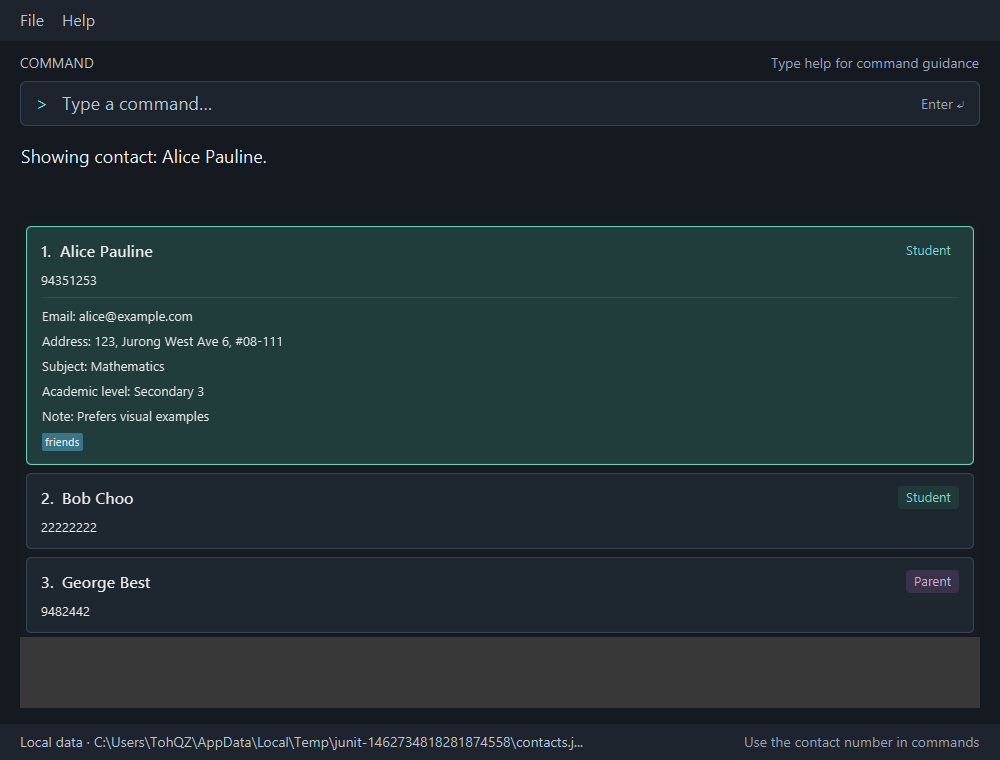
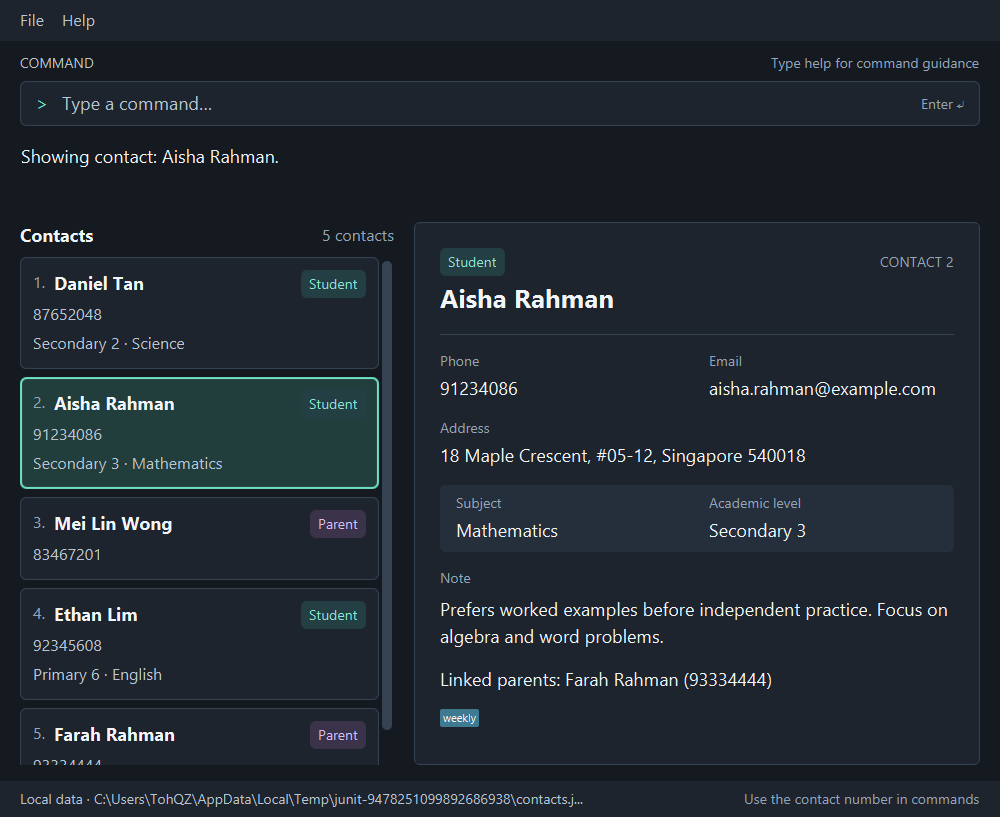
Document split-pane contact interactions
The guides describe in-place expansion and list-driven collapse,
which no longer match the selected-contact detail pane.

Explain selection, editing, relationships, and responsive resizing.
Refresh the application preview and manual test instructions so users
and reviewers can verify the new interaction consistently.

diff --git a/docs/DeveloperGuide.md b/docs/DeveloperGuide.md
@@ -249,7 +249,7 @@ call Storage.
 The following sequence shows the main Logic flow for a successful combined filter, including default ordering
 when no comparator is active. Parser construction, individual predicate evaluations, and routine command checks
 are omitted for clarity. JavaFX observes the resulting list changes. The existing `MainWindow`/`PersonListPanel`
-command handling retains visible selection and expansion or clears a hidden selection.
+command handling retains visible selection and displayed details or clears a hidden selection.
 
 ![Combined contact filtering and display ordering](images/FilterContactsSequenceDiagram.png)
 
@@ -278,16 +278,16 @@ the predicate intact. Subsequent `filter` calls preserve that comparator. `list`
 JUnit covers all seven nonempty criterion combinations, AND name matching, exact values, missing fields, duplicate
 and unknown prefixes, validation precedence, subject length and academic-level boundaries, no matches, name-order ties,
 comparator composition, displayed indices, insertion-order restoration, unchanged JSON, and save-failure rollback.
-`ContactListStateTest` covers selection and expansion after filtering and invalid input.
+`ContactListStateTest` covers selection and displayed details after filtering and invalid input.
 
 For a manual JavaFX check, use a disposable data folder with contacts inserted in this order:
 Zoe Tan (Mathematics, Secondary 3), Alice Tan (parent), Amy Tan (Mathematics, Secondary 3),
 Bob Lee (Physics, JC 2). Give the contacts distinct valid contact details.
 
 1. Run `filter s/Mathematics l/Secondary 3`: expect Amy then Zoe and `Showing 2 matching contacts.`
-2. Run `view 2`, then repeat that filter: Zoe stays selected and expanded at index 2.
-3. Run `filter n/Amy Tan`: expect only Amy; Zoe's selection and expansion clear.
-4. Run `view 1`, then `filter s/`: expect the subject error with Amy's selection, expansion, and list unchanged.
+2. Run `view 2`, then repeat that filter: Zoe stays selected with details at index 2.
+3. Run `filter n/Amy Tan`: expect only Amy; Zoe's selection and displayed details clear.
+4. Run `view 1`, then `filter s/`: expect the subject error with Amy's selection, details, and list unchanged.
 5. Run `filter n/Amy Lee`: expect `No matching contacts.`; `find Amy Lee` should return Amy and Bob.
 6. Run `filter s/Mathematics`, then `delete 1`: Amy is deleted and Zoe becomes index 1. `view 1` shows Zoe.
 7. Run `list`: expect Zoe, Alice, Bob in insertion order with compact cards.
@@ -322,13 +322,13 @@ levels with the same `Level` rules. Unsupported values such as `JC 5` and `Secon
 `getFilteredPersonList()` returns the same displayed view to the UI and to `view`, `edit`, and `delete`, so
 their indices follow the displayed order. `PersonListPanel` supplies this observable view to its `ListView`
 using `setItems(...)`; JavaFX observes subsequent list changes automatically. After command execution,
-`PersonListPanel#completeCommand(...)` restores selection and expansion for any contact still visible and
+`PersonListPanel#completeCommand(...)` restores selection and displayed details for any contact still visible and
 refreshes the cards. The diagram note summarizes the automatic update without implying a direct method call
 from `SortedList` to `PersonListPanel`.
 
 Sorting stays active when `find` or `filter` replaces the predicate; successful `add` and `edit` clear filtering
 but retain the comparator. `list` sets `PREDICATE_SHOW_ALL_PERSONS` and clears the comparator with
-`setPersonListComparator(null)`, restoring all remaining contacts in insertion order and collapsing details.
+`setPersonListComparator(null)`, restoring all remaining contacts in insertion order while retaining selected details.
 The filter and comparator are session state: neither is saved, and restarting restores insertion order.
 
 The diagram shows creation of the command parser, command, and result, with synchronous calls and dashed returns.
@@ -339,7 +339,7 @@ are omitted to keep the diagram focused on parsing and applying the sort.
 ### Parent-student links
 
 `link PARENT_INDEX STUDENT_INDEX` records that a parent contact is the parent of a student contact.
-Expanded contact cards then list the contact's linked students or parents.
+The selected-contact detail pane lists the contact's linked students or parents.
 
 The class diagram below shows how a link is represented and persisted. Fields and classes unrelated to links,
 such as `Email`, `Address`, `Tag`, `UserPrefs`, and the storage managers, are omitted.
@@ -352,13 +352,14 @@ duplicate-contact rules (`Name#isSameName` and `Phone#isSamePhone`). `ParentStud
 also check the contact's `Role`, because a parent and a student may share a name and phone. Within one role, name
 and phone identify at most one contact, so each link resolves to exactly one parent and one student.
 A parent can have 0..* linked students and a student can have 0..* linked parents.
-Cards and `link` messages show each linked contact as `Name (phone)`, because two contacts may share a name.
+The detail pane and `link` messages show each linked contact as `Name (phone)`, distinguishing shared names.
 
 **Normal path.** `LinkCommandParser` parses two displayed-list indices. `LinkCommand#execute` looks up both
 contacts in `Model#getFilteredPersonList()`, checks that the first is a parent and the second a student, creates the
 link with `ParentStudentLink#between`, and rejects a duplicate using `Model#hasLink`. It then calls
-`Model#addLink` and returns a result that expands the parent's card. `LogicManager` saves the address book because
-the command changes data. `PersonListPanel` asks `Logic#getLinkedPersons` for each card's linked contacts.
+`Model#addLink` and returns a result that selects the parent and displays its details.
+`LogicManager` saves the address book because
+the command changes data. `PersonListPanel` asks `Logic#getLinkedPersons` for the selected contact's linked contacts.
 
 **Keeping links consistent.** `AddressBook` updates links whenever contacts change, so every command that changes
 contacts keeps links valid without extra code:
@@ -548,7 +549,7 @@ in the current AB3 codebase.)
    and may supply a note for either role.
 2. TutorContacts validates the fields and checks for a duplicate contact.
 3. TutorContacts adds the contact to the end of the list and selects its compact card, which shows its index, role,
-   name, and phone.
+   name, phone, and student tuition summary. Its complete information appears in the detail pane.
 4. TutorContacts saves the updated data file and reports `Added student: NAME.` or `Added parent: NAME.`
 
    Use case ends.
@@ -580,7 +581,7 @@ in the current AB3 codebase.)
 
 1. User enters `list` to see all contacts.
 2. TutorContacts shows every contact in insertion order, numbered from 1, with its role, name, and phone on a compact
-   card. Any expanded contact card is collapsed.
+   card. Student cards include level and subject. Any selected contact retains its details.
 3. TutorContacts reports `Showing N contacts.`
 4. User scans the list. No contact data is changed or saved.
 
@@ -604,8 +605,8 @@ in the current AB3 codebase.)
 1. User enters `list` to display contacts.
 2. TutorContacts displays contacts with their current index numbers.
 3. User enters `view INDEX` for a contact in that displayed list.
-4. TutorContacts highlights and expands the indexed contact card in place. The other cards remain compact, and the
-   list remains visible.
+4. TutorContacts highlights the indexed compact card and displays its complete information in the detail pane.
+   The list remains visible.
 5. TutorContacts shows the contact's role, name, phone, email, address, note, and subject and level if it is a student.
    TutorContacts reports `Showing contact: NAME.` No contact data is changed or saved.
 
@@ -615,12 +616,12 @@ in the current AB3 codebase.)
 
 * 3a. The index is non-numeric, zero, or negative.
   * 3a1. TutorContacts shows `Index must be a positive integer shown in the current list.` The displayed list and
-    expanded-card selection remain unchanged.
+    detail-pane selection remain unchanged.
 
     Use case resumes at step 3.
 * 3b. The index is larger than the currently displayed list.
   * 3b1. TutorContacts shows `No contact exists at index INDEX in the current list.` The displayed list and
-    expanded-card selection remain unchanged.
+    detail-pane selection remain unchanged.
 
     Use case resumes at step 3.
 * 3c. The index is missing, or the user supplies extra arguments.
@@ -771,12 +772,13 @@ in the current AB3 codebase.)
 
 * **Academic level**: A student's stage of study: `Primary 1`–`Primary 6`, `Secondary 1`–`Secondary 5`,
   or `JC 1`–`JC 2`. Recorded only for student contacts, using canonical capitalization.
-* **Compact card**: The summary of a contact shown in the contact list, displaying its index, role, name, and phone.
+* **Compact card**: The summary of a contact shown in the contact list, displaying index, role, name, phone,
+  and a student level/subject summary.
 * **Data file**: The file `data/tutorcontacts.json`, in the same folder as the JAR file, in which TutorContacts saves
   all contacts.
 * **Duplicate contact**: A contact with the same role and _normalized name_ as an existing contact, and whose phone
   or email also matches that contact's.
-* **Expanded card**: A contact card that shows all of the contact's details after a `view INDEX` command.
+* **Detail pane**: The scrollable region showing complete information for the selected contact.
 * **INDEX**: The one-based position of a contact in the currently displayed contact list.
 * **Mainstream OS**: Windows, Linux, Unix, or macOS.
 * **MVP**: Minimum viable product; the smallest version of TutorContacts that delivers its core value.
@@ -800,7 +802,7 @@ in the current AB3 codebase.)
 ### Help command guide
 
 Use a disposable data file containing at least two contacts. Before testing, run `view 1` and note the
-selected contact, expanded details, and the data file's contents and last-modified time.
+selected contact, displayed details, and the data file's contents and last-modified time.
 
 1. Enter `help`. Expect one window titled **TutorContacts — Command guide**, containing the command reference
    and the TutorContacts User Guide URL. Enter `help` again in the main window: the same Help window should
@@ -816,7 +818,7 @@ selected contact, expanded details, and the data file's contents and last-modifi
 5. Select **Copy User Guide URL** and paste into a browser's address bar. Expect exactly
    `https://ay2627s1-cs2103t-t17-1.github.io/tp/UserGuide.html`. With Internet access, navigate to it and
    verify that it opens the TutorContacts User Guide, not the inherited AB3 guide.
-6. Close Help. Expect the contact list, selected contact, and expanded details to be unchanged. Check that
+6. Close Help. Expect the contact list, selected contact, and displayed details to be unchanged. Check that
    the data file's contents and last-modified time still match the values recorded before opening Help.
 
 ### Command parsing and validation
@@ -871,8 +873,8 @@ Use a disposable data file for these checks:
 Prefix recognition checks (use disposable test data):
 
 1. Enter `ADD R/PARENT N/Prefix Parent P/81234567 E/prefix@example.com A/311, Clementi Ave 2, #02-25`.
-   Check that capitalization is retained and a parent contact is added, then run `view 1` to expand it.
-2. Enter `add n/Alex x/foo`. Expect `Unknown prefix: x/.` with the selected contact and expansion unchanged.
+   Check that capitalization is retained and a parent contact is added, then run `view 1` to show its details.
+2. Enter `add n/Alex x/foo`. Expect `Unknown prefix: x/.` with selection and displayed details unchanged.
 3. Enter `add n/Alex N/Bob`. Expect `Prefix n/ may be specified only once.` with no contact-data change.
 4. Enter `add r/parent n/Literal Parent p/91234567 e/literal@example.com a/21 Clementi Ave 3 o/Discuss \x/foo`.
    View the added contact and check its note is `Discuss x/foo`. Check the JSON stores that same literal text.
@@ -880,13 +882,26 @@ Prefix recognition checks (use disposable test data):
 The prefix and student/parent flow tests in `ContactCardsUiTest` check prefix recognition and literal text
 through real command-box execution and JSON storage when `RUN_UI_TESTS=true`.
 
-`CommandResult` carries a `ContactListAction` and an optional target contact. `add` requests selection,
-`view` requests selection and expansion, and `list` requests collapse. Other successful commands retain the
-selection only while that contact remains visible. `MainWindow` applies these requests after `Logic.execute`
-returns, including any required save. `PersonListPanel` ignores transient JavaFX selection changes during
-execution and reconciles the final list using `ContactListState`, which retains contacts rather than indices.
-Failed commands restore the prior presentation against the final model; restoring model data after a failed save
-is the logic layer's responsibility.
+`CommandResult` carries a `ContactListAction`, an optional target, and an optional previous contact.
+`add`, `view`, and `link` request selection. `edit` supplies an explicit old/new replacement pair, so the UI
+follows a selected edit without guessing identity from names or list indices. `list` retains selection and details.
+`MainWindow` applies presentation requests only after `Logic.execute` returns, including any required save.
+`PersonListPanel` suppresses transient JavaFX selection changes during execution and reconciles the final list
+using `ContactListState`. The state contains one selected contact; there is no independent expansion state.
+Failed commands restore presentation against the final model; the logic layer restores contacts and links after
+save failures.
+
+`ContactDetailPanel` owns role-specific fields, tags, missing-value labels, and relationship text.
+The workspace refreshes it after every command, even when a link changes without a list-change event.
+Relationships come from `Logic#getLinkedPersons`, including relatives outside the current filter.
+
+`PersonListPanel.fxml` uses a native JavaFX `SplitPane` with a default 40/60 list/detail ratio.
+Below 800 logical pixels of workspace width it switches to a vertical layout. Changing orientation resets the
+divider to the default ratio; dragging it adjusts the current layout without saving a preference.
+`ContactWorkspace.css` scopes the prototype card and detail styles to this workspace. Both regions scroll;
+detail field pairs reflow into a single column when narrow. Startup does not automatically select a contact.
+At logical window heights below 500 pixels, the feedback area remains scrollable at a reduced height so the
+list and detail panes have more usable space. The default window preference behavior is unchanged.
 
 `ContactListStateTest` runs in the normal headless JUnit suite. `ContactCardsUiTest` additionally checks actual
 FXML fields and command-box integration on a desktop. With Java 25, run it using:
@@ -896,36 +911,44 @@ FXML fields and command-box integration on a desktop. With Java 25, run it using
 
 The desktop tests are opt-in because CI does not provide a graphical display on every platform.
 They save rendered previews under `build/reports/ui` for visual inspection.
+The split-pane fixture is `src/test/data/UiSplitContacts.json`; it contains five fictional contacts and three links.
+The content-size tests create explicitly sized scenes and assert their final dimensions; native OS scaling is
+still a separate manual check.
 
 Manual checks for the UI contribution:
 
-1. Start with at least two contacts. Check that compact cards show only index, role, name, and phone.
-2. Run `view 2`, then `view 1`: only the latest target should be expanded. Check student subject/level,
+1. Start with at least two contacts. Check compact cards show index, role, name, phone, and student level/subject.
+2. Run `view 2`, then `view 1`: only the latest target should appear in the detail pane. Check student subject/level,
    parent omission of those fields, email, address, and note. Check long names and notes wrap without clipping.
-3. Run `view 0`, `view 99` (when out of range), and `view 1 extra`: selection and expansion must not change.
-4. Run `list`: all cards should be compact. Add a contact: its compact card should be selected and visible.
-5. View the second contact and delete the first: the same contact should stay expanded with index 1.
+3. Run `view 0`, `view 99` (when out of range), and `view 1 extra`: selection and displayed details must not change.
+4. Run `list`: selection and details remain. Add a contact: its compact card and details should become selected.
+5. View the second contact and delete the first: the same contact should retain its details with index 1.
    Delete that selected contact: selection should clear. Repeat within filtered search results.
 6. Check resizing and scrolling at 1920x1080 with 100%/125% scaling and 1280x720 with 150% scaling.
    Keyboard command entry must remain usable after selection changes.
-7. Repeat add, edit, and delete with a failing save and check both the list data and selection remain unchanged.
-   UI tests simulate model restoration; they do not verify storage rollback.
+7. Click another card and use arrow-key list selection: the pane follows selection without changing feedback.
+8. Edit the selected contact's name, phone, and email; its new identity stays selected. Edit a linked contact:
+   the pane refreshes the relationship text. Run `link`: the parent becomes selected even without a list change.
+9. Filter out the selection, then run `list`: selection must remain empty. Test zero results, clear, and restart.
+10. Drag the divider and resize across the 800-pixel workspace breakpoint; selection and command text remain.
+11. Repeat add, edit, link, clear, and delete with a failing save and check both the list data and selection remain unchanged.
+   UI tests also inject real save failures through LogicManager and verify restored contacts, relationships, and details.
 
 ### Main-window appearance and command entry
 
 `MainWindow.css` is loaded after the inherited stylesheets. Its selectors target the main window's menu,
-command area, feedback, and footer, leaving contact cards and the separate Help window unchanged.
+command area, feedback, and footer. Contact styles belong to ContactWorkspace.css; Help keeps its separate styles.
 The layout follows the Figma palette and spacing while retaining native window controls and a portable
-system font. Cards still expand in place. The prototype's separate details pane and last-command chip
-are not implemented. The original intended-design image remains at `images/Ui.png`; the User Guide's
+system font. The workspace implements the prototype's separate detail pane; the last-command chip is omitted.
+The original intended-design image remains at `images/Ui.png`; the User Guide's
 `images/mainWindow.png` shows the implemented layout.
 
 Use disposable contact data for these checks:
 
 1. Click the command field and type `view 1`. Check the teal focus outline, unchanged command text,
-   and in-place expansion. The `>` and `Enter ↵` cues must not intercept clicks or receive keyboard focus.
+   and details in the separate pane. The `>` and `Enter ↵` cues must not intercept clicks or receive keyboard focus.
 2. Enter `view 0` or `unknown`. Expect the existing error message, retained input with error styling,
-   and unchanged selection. Edit the input: error styling clears. Run `list`: the input clears and cards collapse.
+   and unchanged selection. Edit the input: error styling clears. Run `list`: the input clears and selected details remain.
 3. Trigger a long usage error, for example with `add`. Check that feedback wraps, scrolls, and can be
    selected and copied in full. Also check the startup warning using an invalid disposable data file.
 4. Resize down to the existing 450 x 420 minimum. Command entry, feedback, and list scrolling must remain
@@ -957,10 +980,10 @@ testers are expected to do more *exploratory* testing.
 
    Expected: index 1 is Alex Tan (91234567), index 2 is Alex Tan (98765432), and index 3 is Mary Tan.
 1. Test case: `link 3 1`<br>
-   Expected: `Linked parent Mary Tan (93334444) to student Alex Tan (91234567).` Mary Tan's card expands and shows
+   Expected: `Linked parent Mary Tan (93334444) to student Alex Tan (91234567).` Mary Tan's detail pane shows
    `Linked students: Alex Tan (91234567)`.
 1. Test case: `link 3 2`<br>
-   Expected: Mary Tan's card shows `Linked students: Alex Tan (91234567), Alex Tan (98765432)`.
+   Expected: Mary Tan's detail pane shows `Linked students: Alex Tan (91234567), Alex Tan (98765432)`.
 1. Test case: `link 3 1`, then `link 1 2`, then `link 3 3`<br>
    Expected: in turn, `Mary Tan (93334444) is already linked to Alex Tan (91234567).`,
    `The contact at index 1 is not a parent.`, and `A contact cannot be linked to itself.` No data changes.

diff --git a/docs/UserGuide.md b/docs/UserGuide.md
@@ -24,7 +24,7 @@ help you find and manage this information faster than traditional GUI applicatio
 
 1. Open a terminal, `cd` to the folder containing the JAR file, and run `java -jar tutorcontacts.jar`.<br>
    A GUI similar to the one below should appear in a few seconds. On the first launch, the contact list is empty.<br>
-   ![TutorContacts main window with a student contact expanded in place](images/mainWindow.png)
+   ![TutorContacts main window with a compact list and selected-contact detail pane](images/mainWindow.png)
 
 1. Type a command in the command box and press Enter to execute it. For example, type **`help`** and press Enter to open the help window.<br>
    Some example commands you can try:
@@ -138,7 +138,7 @@ Format: `add r/ROLE n/NAME p/PHONE e/EMAIL a/ADDRESS [s/SUBJECT] [l/LEVEL] [o/NO
 * Either role may supply `o/NOTE`. An omitted or whitespace-only note is treated as absent.
 * `t/` and other unsupported prefixes are rejected. Adding tags or multiple subjects is not supported.
 * On success, TutorContacts reports `Added student: NAME.` or `Added parent: NAME.`
-* The newly added contact is selected and scrolled into view as a compact card.
+* The newly added contact is selected and scrolled into view; its complete information appears in the detail pane.
 
 Field rules apply to normalized values. Leading and trailing whitespace is trimmed; consecutive spaces in
 names, subjects, and levels are collapsed. Capitalization is retained except for roles and academic levels,
@@ -175,7 +175,8 @@ Examples:
 Displays all contacts in insertion order, numbered from 1. This command clears filtering and sorting
 to restore the complete insertion-order list.
 
-Compact cards show only the index, role, name, and phone. `list` collapses any expanded card.
+Compact cards show index, role, name, and phone, plus academic level and subject for students.
+`list` retains the selected contact and its details while restoring the complete insertion-order list.
 
 Format: `list`
 
@@ -188,7 +189,7 @@ Format: `list`
 
 Example: `list`
 
-![Result of the list command showing four compact contact cards](images/listContactsResult.png)
+![Compact contact list beside the detail pane](images/mainWindow.png)
 
 ### Sorting contacts by academic level: `sort`
 
@@ -197,7 +198,7 @@ Format: `sort level`
 * Students come first: `Primary 1`–`Primary 6`, then `Secondary 1`–`Secondary 5`, then `JC 1`–`JC 2`.
   Names break level ties, ignoring case. Legacy students without levels follow other students;
   parents come last, ordered by name. Equal sort keys have no additional guaranteed order.
-* Sorts the current results, retaining the filter and any visible selected or expanded contact.
+* Sorts the current results, retaining the filter and any visible selected contact and its details.
   Sorting remains active as results change; `list` clears filtering and sorting.
 * `view`, `edit`, and `delete` use the displayed indices. Sorting does not save data or change stored order.
 * `SORT LEVEL` and surrounding whitespace are accepted. Success: `Contacts sorted by academic level.`,
@@ -216,19 +217,23 @@ Format: `view INDEX`
 * Supply exactly one **positive integer**: `1`, `2`, `3`, … Use digits only; leading zeros are accepted.
 * On success, the message is `Showing contact: NAME.`
 * This command does not change contact details or save the data file.
-* The selected card is highlighted and expanded in place; other cards remain compact.
-* Expanded cards also show email, address, and note, plus subject and academic level for students.
+* The selected card is highlighted, and its complete information appears in the separate detail pane.
+  All contact cards remain compact. Clicking a card or selecting it with the list's arrow keys also shows its details.
+* The detail pane shows email, address, note, linked contacts, and subject and academic level for students.
   An absent note is shown as `None`. Older student records without subject or level show `Not recorded` for those fields.
-  Existing tags, if any, appear only in the expanded card.
-* Use `view` on another contact to move the expansion, or `list` to collapse it.
+  Existing tags, if any, appear in the detail pane.
+* Use `view` on another contact to change the detail pane. `list` keeps the selected contact and its details.
+* On startup, the pane prompts you to select a contact. An empty displayed list shows guidance to use `list` or add a contact.
+* The list and detail pane start at a resizable 40/60 split. Below 800 logical pixels of workspace width,
+  they stack vertically. Each region scrolls independently. No selection or divider position is saved across restarts.
 
 Examples:
 * `list` followed by `view 2` shows the second displayed contact.
 * `find Betsy` followed by `view 1` shows the first search result.
 
-![Result of view 1 showing an expanded student contact card](images/viewContactResult.png)
+![Selected student shown beside the compact contact list](images/mainWindow.png)
 
-Invalid input leaves contact data, the displayed list, and the current selection and expansion unchanged:
+Invalid input leaves contact data, the displayed list, and the current selection and displayed details unchanged:
 
 | Input problem | Error message |
 | --- | --- |
@@ -247,8 +252,8 @@ Format: `link PARENT_INDEX STUDENT_INDEX`
 * Supply exactly two **positive integers**. The first must be a parent and the second must be a student.
 * A parent can be linked to several students, and a student can be linked to several parents.
 * On success, the message is `Linked parent PARENT_NAME (PHONE) to student STUDENT_NAME (PHONE).`
-  The parent's card is highlighted and expanded.
-* Expanded cards list linked contacts with their phone numbers, so contacts with the same name can be told apart.
+  The parent's card is highlighted and its details appear in the detail pane.
+* The detail pane lists linked contacts with their phone numbers, so contacts with the same name can be told apart.
   For example, a parent shows `Linked students: Alex Tan (91234567)` and a student shows `Linked parents: …`.
   A contact without links shows `None`.
 * Links are saved with your contacts. Deleting a linked contact removes its links, and editing a linked contact's
@@ -293,9 +298,9 @@ Format: `edit INDEX [n/NAME] [p/PHONE] [e/EMAIL] [a/ADDRESS] [s/SUBJECT] [l/LEVE
   matching normalized phone or case-insensitive email, is a duplicate. Invalid input, a duplicate, or a failed save
   leaves the displayed and saved contact data unchanged. Successful edits are saved automatically.
 * After a successful edit, TutorContacts reports `Edited person: ...` and displays the complete contact list again.
-  A search filter is cleared, so contact indices may change. Check the contact's current index, or search for the
-  contact again, before using `view INDEX` to inspect its subject, level, or note. The success message itself lists
-  only the general contact fields.
+  A search filter is cleared, so contact indices may change. Editing the selected contact keeps its updated details
+  visible at its new index. Editing another contact retains the current selection and refreshes linked-contact details.
+  The success message itself lists only the general contact fields.
 * Editing a linked contact's name or phone keeps its links to other contacts.
 
 Examples (assuming contact 1 is a student and contact 2 is a parent):
@@ -350,8 +355,8 @@ Command words and prefixes are case-insensitive, and prefixes can appear in any 
 * Results default to ascending full-name order, ignoring case. Equal names retain insertion order.
   An already active display ordering is preserved.
 * `view INDEX`, `edit INDEX`, and `delete INDEX` use the numbered results currently displayed.
-  `list` clears both filtering and ordering, shows all remaining contacts in insertion order, and collapses details.
-* Selection and expansion stay with the selected contact if it remains visible; otherwise they clear.
+  `list` clears both filtering and ordering, shows all remaining contacts in insertion order, and retains the selected contact's details.
+* Selection and details stay with the selected contact if it remains visible; otherwise they clear.
 * Filtering does not change stored contacts or rewrite the data file. Filters and display ordering are not retained
   when the application restarts. Startup uses insertion order.
 * Existing `add` and `edit` commands clear the filter after success and preserve active display ordering.
@@ -367,7 +372,7 @@ Examples:
 Successful filtering reports `Showing N matching contacts.`, including `Showing 1 matching contacts.` for one match.
 Zero matches (including an empty address book) reports `No matching contacts.` and displays an empty list.
 
-Invalid input leaves contacts, the displayed list, ordering, selection, expansion, and saved data unchanged.
+Invalid input leaves contacts, the displayed list, ordering, selection, details, and saved data unchanged.
 
 | Input problem | Error message |
 | --- | --- |
@@ -397,8 +402,8 @@ Format: `delete INDEX`
 * Supply exactly one **positive integer**: `1`, `2`, `3`, … Use digits only; leading zeros are accepted.
 * On success, the message is `Deleted contact: NAME.` The remaining contacts keep their order and are renumbered.
 * Deleting a linked contact also removes its links. The message then ends with `Removed COUNT link(s).`
-* Deleting the selected contact clears the selection and expansion. Deleting another contact keeps the selected
-  contact highlighted, with its new index and any expanded details.
+* Deleting the selected contact clears the selection and detail pane. Deleting another contact keeps the selected
+  contact highlighted, with its new index and current details.
 
 Examples:
 * `list` followed by `delete 2` deletes the second displayed contact.
